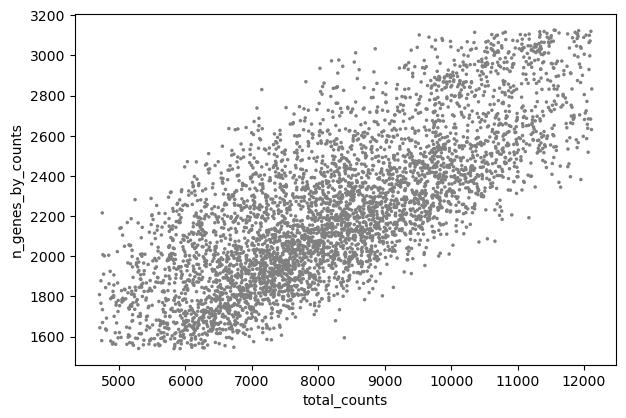
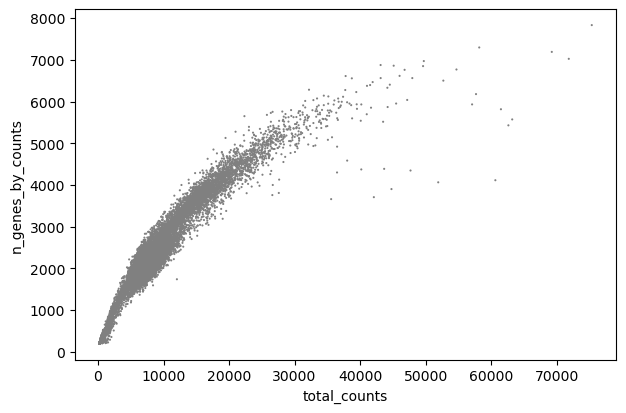
preserve the preQC data

diff --git a/src/easySC.py b/src/easySC.py
@@ -130,9 +130,11 @@ class SCAnalysis:
         down_cutoff = args.min_cutoff
         adata = self.adata
 
+        adata_preQC = adata
+
         # Preliminary filtering process
-        sc.pp.filter_cells(adata, min_genes=min_genes)
-        sc.pp.filter_genes(adata, min_cells=min_cells)
+        sc.pp.filter_cells(adata_preQC, min_genes=min_genes)
+        sc.pp.filter_genes(adata_preQC, min_cells=min_cells)
 
         # Generate QC metrics
         adata.var["mt"] = adata.var_names.str.startswith(
@@ -181,6 +183,7 @@ class SCAnalysis:
         )
 
         self.adata = adata
+        self.adata_preQC = adata_preQC
 
     def plot_filtered_data(self):
         # Draw figures for raw data and save them.
@@ -188,6 +191,7 @@ class SCAnalysis:
         # # The out plots will be save in "./figures" automatically.
 
         adata = self.adata
+        adata_preQC = self.adata_preQC
         format = args.fig_format
         print(f"format is {format}")
 
@@ -205,9 +209,9 @@ class SCAnalysis:
         furtherQC_mt = "".join(furtherQC_mt)
         furtherQC_gene = "".join(furtherQC_gene)
 
-        ## This should be wrapped up into a plot function
+        ## Preliminary QC
         sc.pl.violin(
-            adata,
+            adata_preQC,
             ["n_genes_by_counts", "total_counts", "pct_counts_mt"],
             jitter=0.4,
             multi_panel=True,
@@ -215,21 +219,21 @@ class SCAnalysis:
             save=preliminaryQC,
         )
         sc.pl.scatter(
-            adata,
+            adata_preQC,
             x="total_counts",
             y="pct_counts_mt",
             show=False,
             save=preliminaryQC_mt,
         )
         sc.pl.scatter(
-            adata,
+            adata_preQC,
             x="total_counts",
             y="n_genes_by_counts",
             show=False,
             save=preliminaryQC_gene,
         )
 
-        ## This should be wrapped up into a plot function
+        ## Further QC
         sc.pl.violin(
             adata,
             ["n_genes_by_counts", "total_counts", "pct_counts_mt"],
